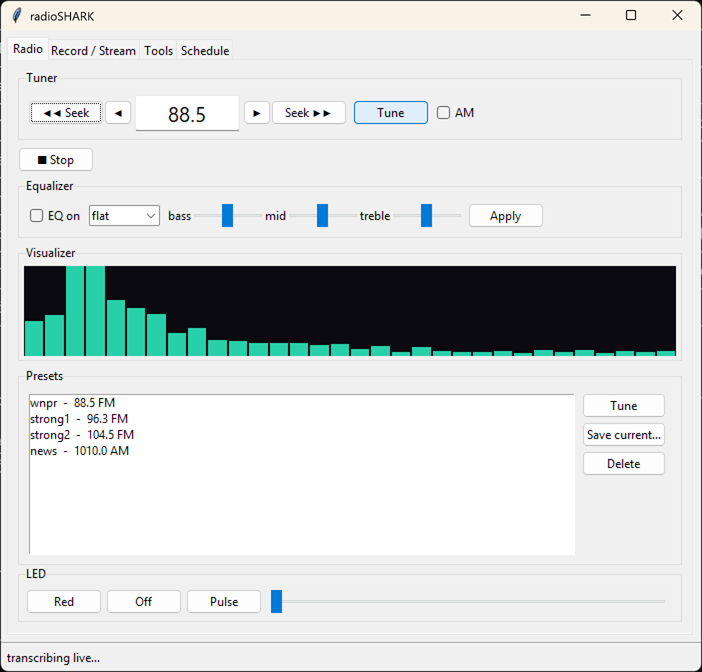
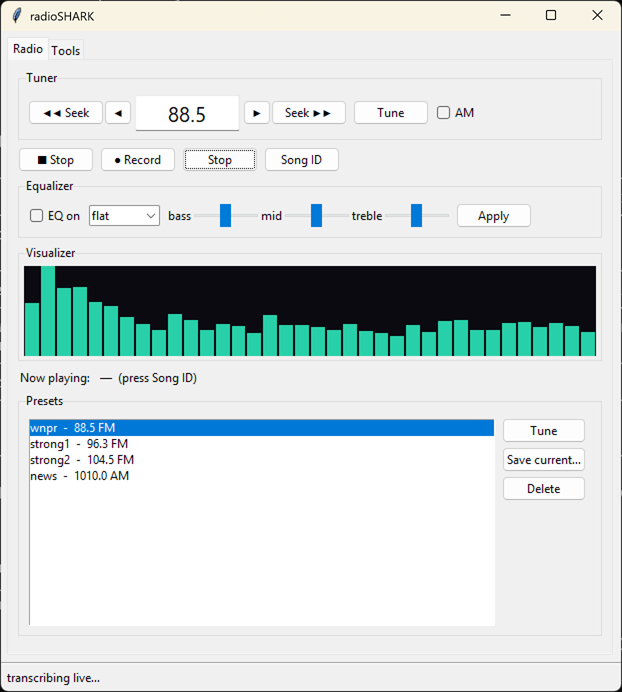
Lower audio latency, add transcript appearance settings, faster visualizer
- audio: ffplay uses -analyzeduration 0 -probesize 4096 -flags low_delay (was a ~5s
  startup probe), pipe flushes packets, dshow audio_buffer_size 80 => audio starts
  almost immediately instead of trailing the visualizer by ~5s
- Tools: new transcript appearance settings (font family, size, text/background
  color) applied live to the karaoke window
- visualizer: ~55fps refresh and 20ms flushed chunks for a snappier meter
- updated radio UI screenshot

diff --git a/shark_gui.py b/shark_gui.py
@@ -10,7 +10,7 @@ Run:  python shark_gui.py      (or:  python shark.py gui)
 """
 import os, sys, glob, time, threading, subprocess, re
 import tkinter as tk
-from tkinter import ttk, simpledialog, messagebox
+from tkinter import ttk, simpledialog, messagebox, colorchooser
 import shark
 
 NO_WINDOW = subprocess.CREATE_NO_WINDOW if shark.IS_WIN else 0
@@ -50,6 +50,10 @@ class SharkGUI:
         self.eq_on = tk.BooleanVar(value=False)
         self.eq = tk.StringVar(value="flat")
         self.eq_b, self.eq_m, self.eq_t = tk.IntVar(value=0), tk.IntVar(value=0), tk.IntVar(value=0)
+        # transcript appearance
+        self.tx_font = tk.StringVar(value="Segoe UI")
+        self.tx_size = tk.IntVar(value=17)
+        self.tx_fg, self.tx_bg = "#e8e8ea", "#101014"
 
         nb = ttk.Notebook(root); nb.pack(fill="both", expand=True, padx=6, pady=6)
         self._tab_radio(nb)
@@ -151,6 +155,20 @@ class SharkGUI:
         ttk.Button(led, text="Off", command=lambda: shark.set_led(red=False, blue=0)).pack(side="left")
         ttk.Scale(led, from_=0, to=127, command=lambda v: shark.set_led(blue=int(float(v)))
                   ).pack(side="left", fill="x", expand=True, padx=8)
+
+        # Transcript appearance
+        tf = ttk.LabelFrame(f, text="Transcript appearance", padding=8); tf.pack(fill="x", pady=8)
+        fams = ["Segoe UI", "Consolas", "Arial", "Calibri", "Georgia", "Times New Roman",
+                "Verdana", "Comic Sans MS", "Courier New", "Trebuchet MS"]
+        ttk.Label(tf, text="font").grid(row=0, column=0)
+        fc = ttk.Combobox(tf, textvariable=self.tx_font, values=fams, width=15, state="readonly")
+        fc.grid(row=0, column=1, padx=4); fc.bind("<<ComboboxSelected>>", lambda e: self.apply_tx_style())
+        ttk.Label(tf, text="size").grid(row=0, column=2)
+        ttk.Spinbox(tf, from_=10, to=48, textvariable=self.tx_size, width=4,
+                    command=self.apply_tx_style).grid(row=0, column=3, padx=4)
+        ttk.Button(tf, text="Text color", command=lambda: self.pick_color("fg")).grid(row=0, column=4, padx=4)
+        ttk.Button(tf, text="Background", command=lambda: self.pick_color("bg")).grid(row=0, column=5, padx=4)
+        self.tx_preview = tk.Label(tf, text=" Aa ", fg=self.tx_fg, bg=self.tx_bg); self.tx_preview.grid(row=0, column=6, padx=6)
 
         # Capture
         cap = ttk.LabelFrame(f, text="Record / Stream / Log", padding=8); cap.pack(fill="x")
@@ -354,16 +372,31 @@ class SharkGUI:
                     self.viz.create_rectangle(x + 1, H - h, x + bw - 1, H, fill="#27d0a8", outline="")
         except Exception:
             pass
-        self.root.after(33, self._viz_tick)
+        self.root.after(18, self._viz_tick)       # ~55 fps
 
     # ------------------------------------------------------- transcription
+    def pick_color(self, which):
+        c = colorchooser.askcolor(color=(self.tx_fg if which == "fg" else self.tx_bg))[1]
+        if c:
+            if which == "fg": self.tx_fg = c
+            else: self.tx_bg = c
+            self.apply_tx_style()
+
+    def apply_tx_style(self):
+        try:
+            self.tx_preview.config(fg=self.tx_fg, bg=self.tx_bg, font=(self.tx_font.get(), 11))
+        except Exception:
+            pass
+        if self.karaoke and self.karaoke.winfo_exists():
+            self.k_text.config(font=(self.tx_font.get(), self.tx_size.get()), fg=self.tx_fg, bg=self.tx_bg)
+
     def open_karaoke(self):
         if self.karaoke and self.karaoke.winfo_exists():
             self.karaoke.lift(); return
         self.karaoke = tk.Toplevel(self.root)
         self.karaoke.title("radioSHARK — Transcript"); self.karaoke.geometry("540x320")
-        self.k_text = tk.Text(self.karaoke, wrap="word", font=("Segoe UI", 17),
-                              bg="#101014", fg="#e8e8ea", padx=14, pady=14, spacing3=4)
+        self.k_text = tk.Text(self.karaoke, wrap="word", font=(self.tx_font.get(), self.tx_size.get()),
+                              bg=self.tx_bg, fg=self.tx_fg, padx=14, pady=14, spacing3=4)
         self.k_text.pack(fill="both", expand=True)
         self.karaoke.protocol("WM_DELETE_WINDOW", self.close_karaoke)
 

diff --git a/shark.py b/shark.py
@@ -50,8 +50,8 @@ def default_device():
 def audio_input(device=None):
     """ffmpeg/ffplay input args to capture from the radioSHARK, per platform."""
     device = device or default_device()
-    if IS_WIN:
-        return ["-f", "dshow", "-i", f"audio={device}"]
+    if IS_WIN:                                     # small buffer => lower capture latency
+        return ["-f", "dshow", "-audio_buffer_size", "80", "-i", f"audio={device}"]
     return ["-f", "alsa", "-i", device]            # Linux: ALSA capture
 
 DEFAULT_DEVICE = default_device()
@@ -363,9 +363,10 @@ def engine_cmds(eq=None, vizfile=None, segdir=None, device=None, record_file=Non
     The caller pipes ffmpeg.stdout into ffplay.stdin so a single device read feeds
     playback, visualizer, transcription and recording at once."""
     cmd = ["ffmpeg", "-hide_banner", "-loglevel", "error"] + audio_input(device)
-    cmd += ["-map", "0:a"] + _eq_args(eq) + ["-c:a", "pcm_s16le", "-f", "wav", "pipe:1"]
-    if vizfile:                       # small, per-packet-flushed chunks => snappy meter
-        cmd += ["-map", "0:a", "-af", "aresample=8000,asetnsamples=n=400:p=0", "-ac", "1",
+    cmd += (["-map", "0:a"] + _eq_args(eq) +
+            ["-c:a", "pcm_s16le", "-flush_packets", "1", "-f", "wav", "pipe:1"])
+    if vizfile:                       # tiny, per-packet-flushed chunks => snappy meter
+        cmd += ["-map", "0:a", "-af", "aresample=8000,asetnsamples=n=160:p=0", "-ac", "1",
                 "-flush_packets", "1", "-f", "s16le", "-y", vizfile]
     if segdir:
         cmd += ["-map", "0:a", "-ar", "16000", "-ac", "1", "-f", "segment",
@@ -376,8 +377,9 @@ def engine_cmds(eq=None, vizfile=None, segdir=None, device=None, record_file=Non
         rc = {"wav": ["-c:a", "pcm_s16le"], "aac": ["-c:a", "aac", "-b:a", "192k"]
               }.get(ext, ["-c:a", "libmp3lame", "-b:a", "192k"])
         cmd += ["-map", "0:a"] + rc + ["-y", record_file]
-    ffplay = ["ffplay", "-hide_banner", "-loglevel", "error", "-nodisp",
-              "-autoexit", "-fflags", "nobuffer", "-i", "pipe:0"]
+    ffplay = ["ffplay", "-hide_banner", "-loglevel", "error", "-nodisp", "-autoexit",
+              "-fflags", "nobuffer", "-flags", "low_delay", "-probesize", "4096",
+              "-analyzeduration", "0", "-i", "pipe:0"]
     return cmd, ffplay
 
 def prepare(model="base"):